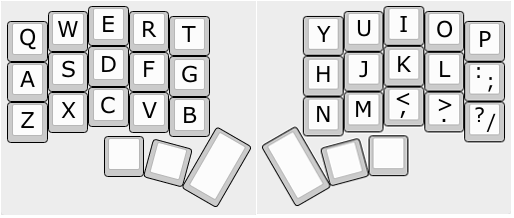
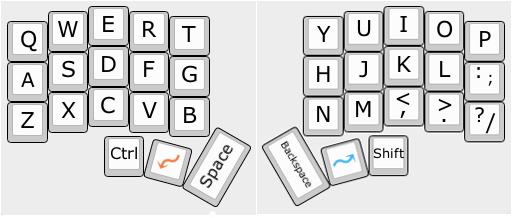
Added new layer formats, started working on bottom key lower

diff --git a/src/keyboardvisualizer.py b/src/keyboardvisualizer.py
@@ -1,3 +1,6 @@
+# References:
+# https://effbot.org/tkinterbook/tkinter-events-and-bindings.htm
+
 import tkinter as tk
 from PIL import ImageTk
 
@@ -42,8 +45,17 @@ COMMA_KEY = (384, 86, 422, 124)
 PERIOD_KEY = (425, 91, 462, 130)
 FORWARDSLASH_KEY = (465, 101, 503, 140)
 
+CONTROL_KEY = (105, 136, 142, 174)
+LOWER_KEY = ()
+SPACE_KEY = ()
+
+BACKSPACE_KEY = ()
+RAISE_KEY = ()
+SHIFT_KEY = (370, 135, 407, 173)
+
 root = tk.Tk()
 root.title("Keyboard Visualizer")
+root.focus_set()
 
 root.attributes("-topmost", True)
 
@@ -108,7 +120,7 @@ def listen_for_keyboard():
 	root.bind('B', on_b_press)
 	root.bind('N', on_n_press)
 	root.bind('M', on_m_press)
-	root.bind('<less>', on_comma_press)
+	root.bind("<less>", on_comma_press)
 	root.bind('>', on_period_press)
 	root.bind('?', on_forwardslash_press)
 	root.bind('z', on_z_press)
@@ -121,6 +133,10 @@ def listen_for_keyboard():
 	root.bind(',', on_comma_press)
 	root.bind('.', on_period_press)
 	root.bind('/', on_forwardslash_press)
+
+	root.bind("<Control_L>", on_control_press)
+
+	root.bind("<Shift_L>", on_shift_press)
 
 def reset_canvas():
 	c.delete("all")
@@ -199,7 +215,7 @@ def on_l_press(event):
 	visualize_keyboard('l', L_KEY)
 
 def on_semicolon_press(event):
-	visualize_keyboard('semicolon', SEMICOLON_KEY)
+	visualize_keyboard("semicolon", SEMICOLON_KEY)
 
 # ========================
 
@@ -232,6 +248,14 @@ def on_period_press(event):
 
 def on_forwardslash_press(event):
 	visualize_keyboard('/', FORWARDSLASH_KEY)
+
+# ========================
+
+def on_control_press(event):
+	visualize_keyboard("control", CONTROL_KEY)
+
+def on_shift_press(event):
+	visualize_keyboard("shift", SHIFT_KEY)
 
 def main():
 	listen_for_keyboard()
